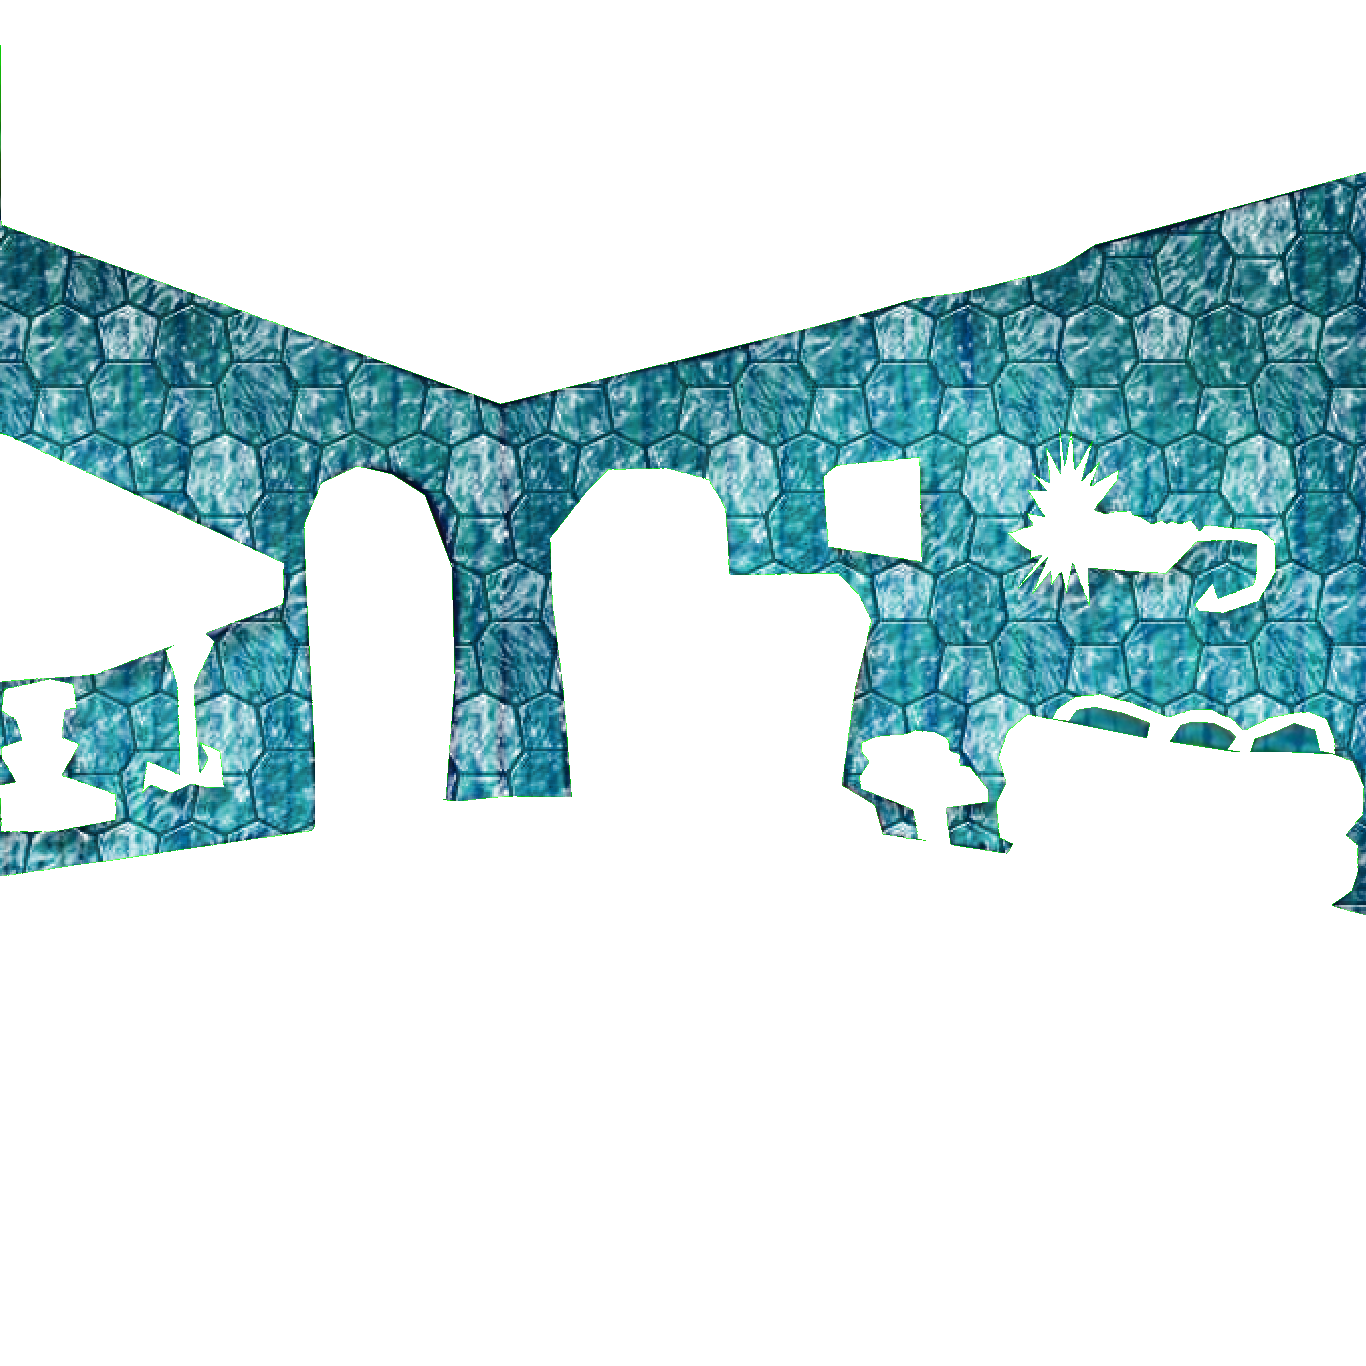
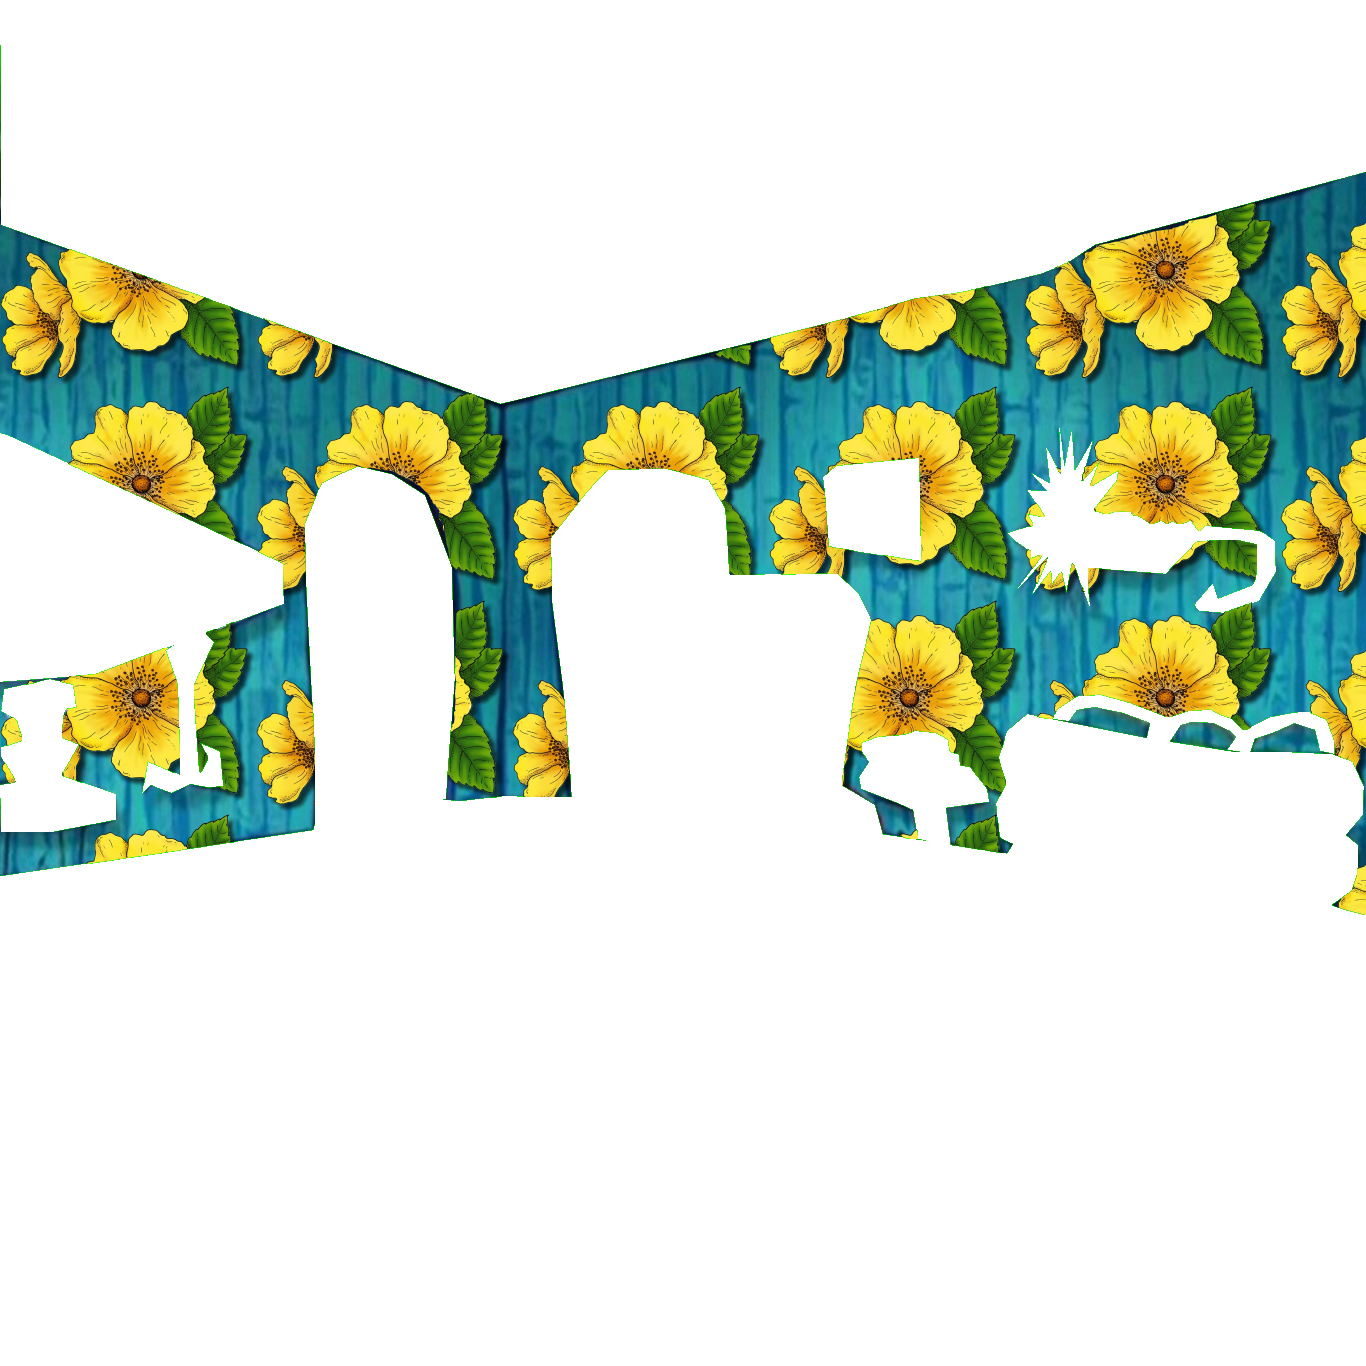
SpongeBob_room: update wallpaper emotions

Changed region(s): [[0.0, 0.123, 1.0, 0.6764]]

diff --git a/SpongeBob_room/src/js/view/SpongeBob.js b/SpongeBob_room/src/js/view/SpongeBob.js
@@ -1,7 +1,15 @@
-class SpongeBob {
+import { clearActiveClass } from '../utils/utils.js'
+
+export default class SpongeBob {
   constructor() {
+    this.bobImages = Array.from(document.querySelectorAll('.bob'))
+  
+    // SpongeBob↓ Wallpaper↓ Bed↓
+    // 0: norm
+    // 0: sad
+    // 2: happy
     this.MatrixEmotions = [
-    
+      [0, 0, 0]
     ]
   }
   
@@ -16,4 +24,30 @@ class SpongeBob {
   setSad = () => {
   
   }
+  
+  changeEmotions = (state) => {
+    // console.log('выбраны обои: ', state.wallpaper.indexItem)
+    // console.log('выбрана кровать: ', state.bed.indexItem)
+    clearActiveClass(this.bobImages, 'is-active')
+  
+    if (state.wallpaper.indexItem === 0) {
+      this.bobImages.find((item, index) => {
+        if (index === 0) item.classList.add('is-active')
+      })
+    }
+    
+    if (state.wallpaper.indexItem >= 1) {
+      this.bobImages.find((item, index) => {
+        if (index === 1) item.classList.add('is-active')
+      })
+    }
+  }
+  
+  init = () => {
+    this.bobImages.find((item, index) => {
+      if (index === 0) item.classList.add('is-active')
+    })
+  }
 }
+
+new SpongeBob().init()

diff --git a/SpongeBob_room/src/js/main.js b/SpongeBob_room/src/js/main.js
@@ -1,6 +1,7 @@
 import { stateRoomItems } from './utils/const.js';
 import { render } from './utils/utils.js';
 import ActiveTabs from './abstract/ActiveTabs.js';
+import SpongeBob from './view/SpongeBob.js'
 
 class Game {
   constructor() {
@@ -14,6 +15,8 @@ class Game {
     this.btnBed       = document.querySelector('.button-bad')
     this._allDisabled = false
     this._isWinGame = false
+    
+    this.spongeBob = new SpongeBob()
   }
   
   init = () => {
@@ -39,6 +42,8 @@ class Game {
   // проверка, что все предметы выбраны
   _checkedEnterAllItems = (event) => {
     const state = event.detail.state
+    
+    this.spongeBob.changeEmotions(state)
   
     if (state.bed.check && state.wallpaper.check) {
       this._isWinGame = true
@@ -72,7 +77,6 @@ class Game {
     this.btnWallpaper.classList.toggle('visually-hidden')
     this._checkDisableAllBtns()
   }
-  
 }
 
 new Game().init()

diff --git a/SpongeBob_room/src/js/utils/utils.js b/SpongeBob_room/src/js/utils/utils.js
@@ -4,6 +4,16 @@ const render = (container, template, place = 'beforeend') => {
   }
 }
 
+const clearActiveClass = (element, className = 'is-active') => {
+  element.find(item => item.classList.remove(`${ className }`))
+}
+
+const setActiveClass = (element, index, className = 'is-active') => {
+  element[index].classList.add(`${ className }`)
+}
+
 export {
-  render
+  render,
+  clearActiveClass,
+  setActiveClass
 }

diff --git a/SpongeBob_room/index.html b/SpongeBob_room/index.html
@@ -12,7 +12,7 @@
 <div class="game">
 	<div class="win-message visually-hidden">WHAT NEXT ?</div>
 	
-	<img src="src/img/character/bob_normal.png" class="bob bob-normal is-active" alt="#"/>
+	<img src="src/img/character/bob_normal.png" class="bob bob-normal" alt="#"/>
 	<img src="src/img/character/bob_sad.png" class="bob bob-sad" alt="#"/>
 	<img src="src/img/character/bob_happy.png" class="bob bob-happy" alt="#"/>
 
